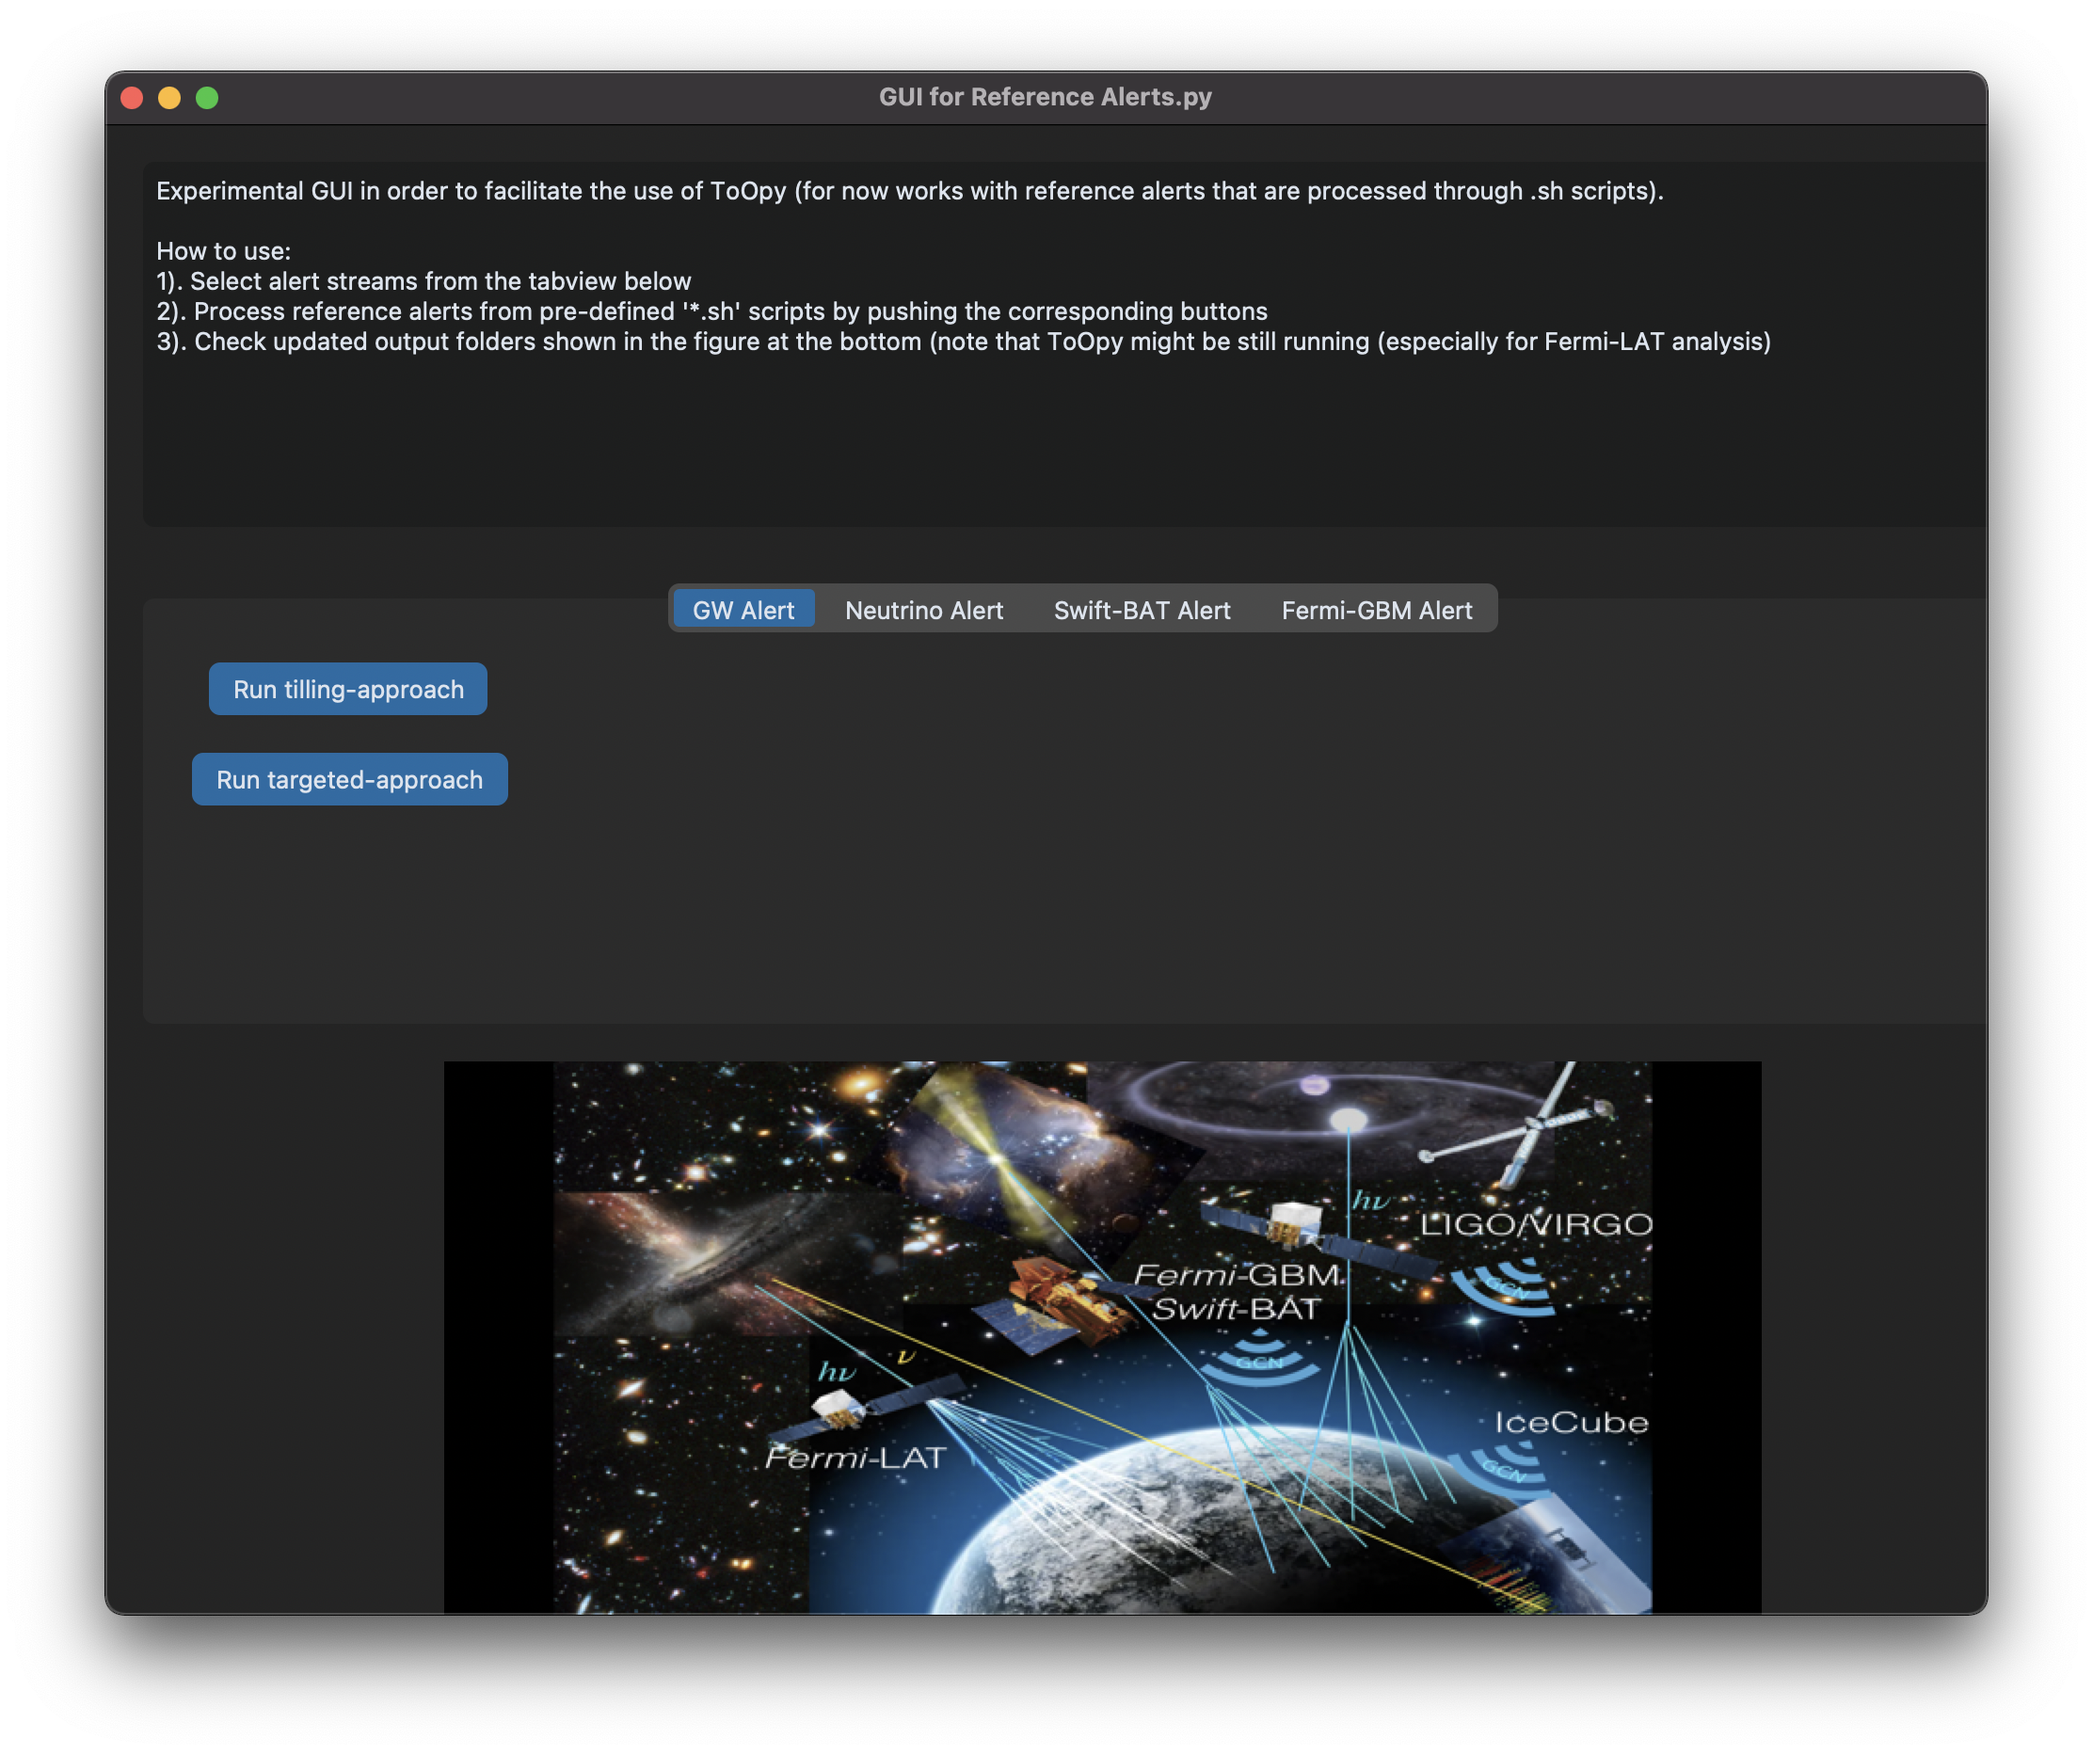
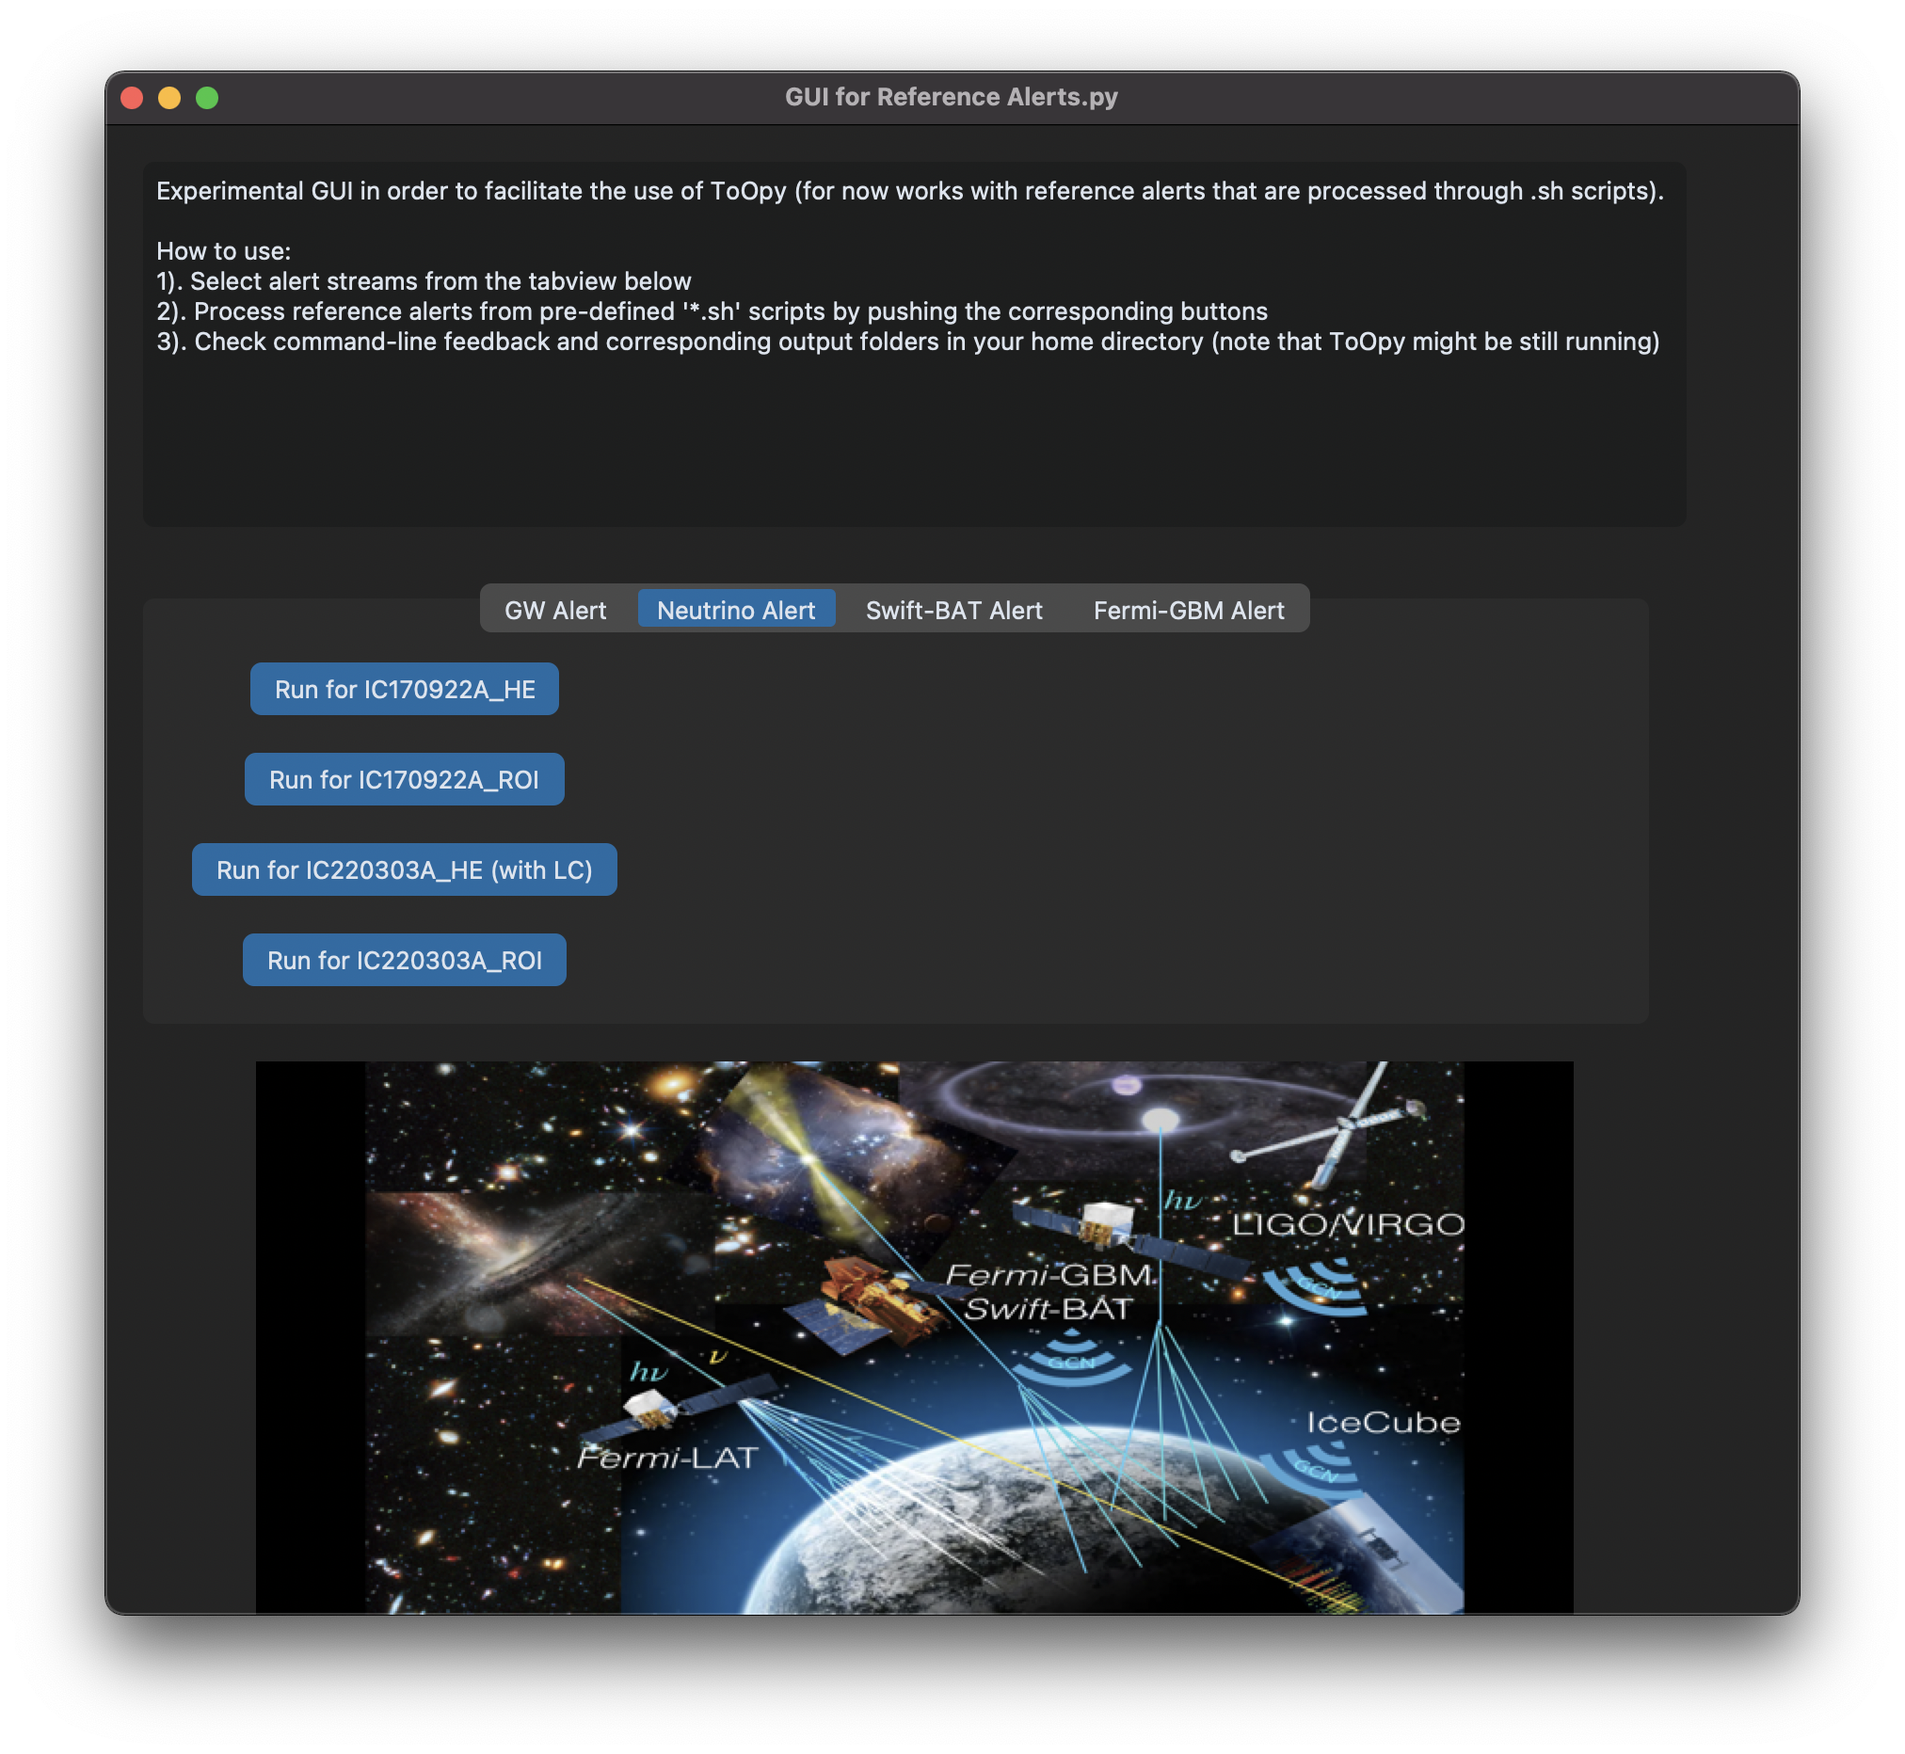
updates

diff --git a/toopy/testing_GUI.py b/toopy/testing_GUI.py
@@ -16,17 +16,17 @@ class App(customtkinter.CTk):
 
         # configure window
         self.title("GUI for Reference Alerts.py")
-        self.geometry(f"{1000}x{1000}")
+        self.geometry(f"{900}x{1000}")
 
         # configure grid layout (4x4)
         self.grid_columnconfigure(1, weight=1)
         self.grid_columnconfigure((2, 3), weight=0)
         self.grid_rowconfigure((0, 1, 2), weight=1)
 
-        self.textbox = customtkinter.CTkTextbox(self, width=1000, height=200)
+        self.textbox = customtkinter.CTkTextbox(self, width=800, height=200)
         self.textbox.grid(row=0, column=0, padx=(20, 0), pady=(20, 0), sticky="nsew")
 
-        self.tabview = customtkinter.CTkTabview(self, width=1000)
+        self.tabview = customtkinter.CTkTabview(self, width=800)
         self.tabview.grid(row=1, column=0, padx=(20, 20), pady=(20, 0), sticky="nsew")
         #self.tabview = customtkinter.CTkLabel(master=self.tabview, text="ghjgjhgj Group:")
         self.tabview.add("GW Alert")
@@ -84,7 +84,7 @@ class App(customtkinter.CTk):
 
         self.textbox.insert("0.0","Experimental GUI in order to facilitate the use of ToOpy (for now works with reference alerts that are processed through .sh scripts)." "\n\n" + 
         	"How to use:\n" + "1). Select alert streams from the tabview below\n" + 
-        	"2). Process reference alerts from pre-defined '*.sh' scripts by pushing the corresponding buttons \n" + "3). Check updated output folders shown in the figure at the bottom (note that ToOpy might be still running (especially for Fermi-LAT analysis)")
+        	"2). Process reference alerts from pre-defined '*.sh' scripts by pushing the corresponding buttons \n" + "3). Check command-line feedback and corresponding output folders in your home directory (note that ToOpy might be still running)")
 
     def input_gw_event_GW_tilling(self):
         answer = askokcancel(
